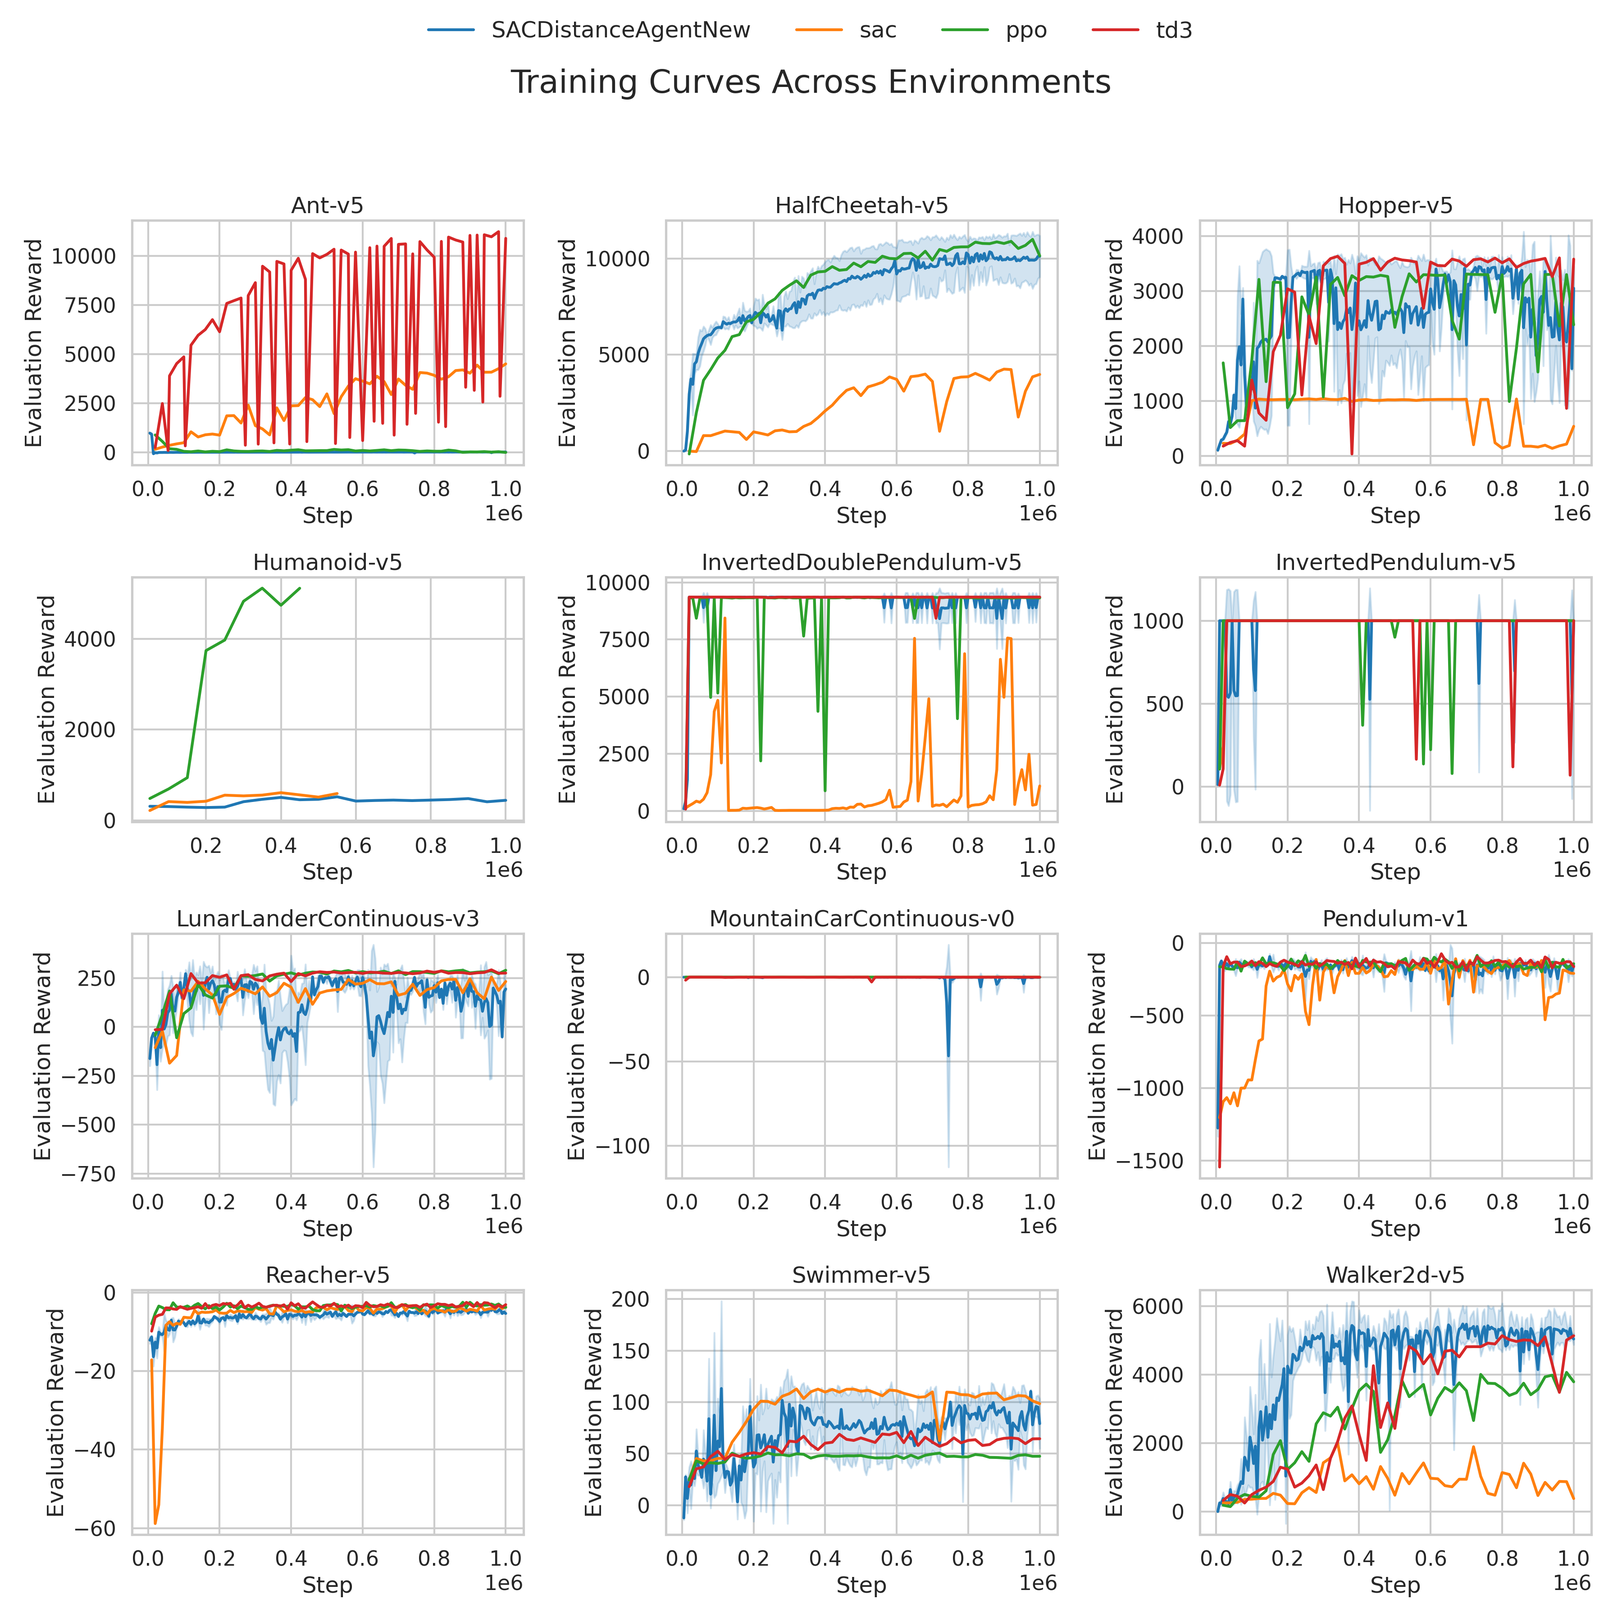
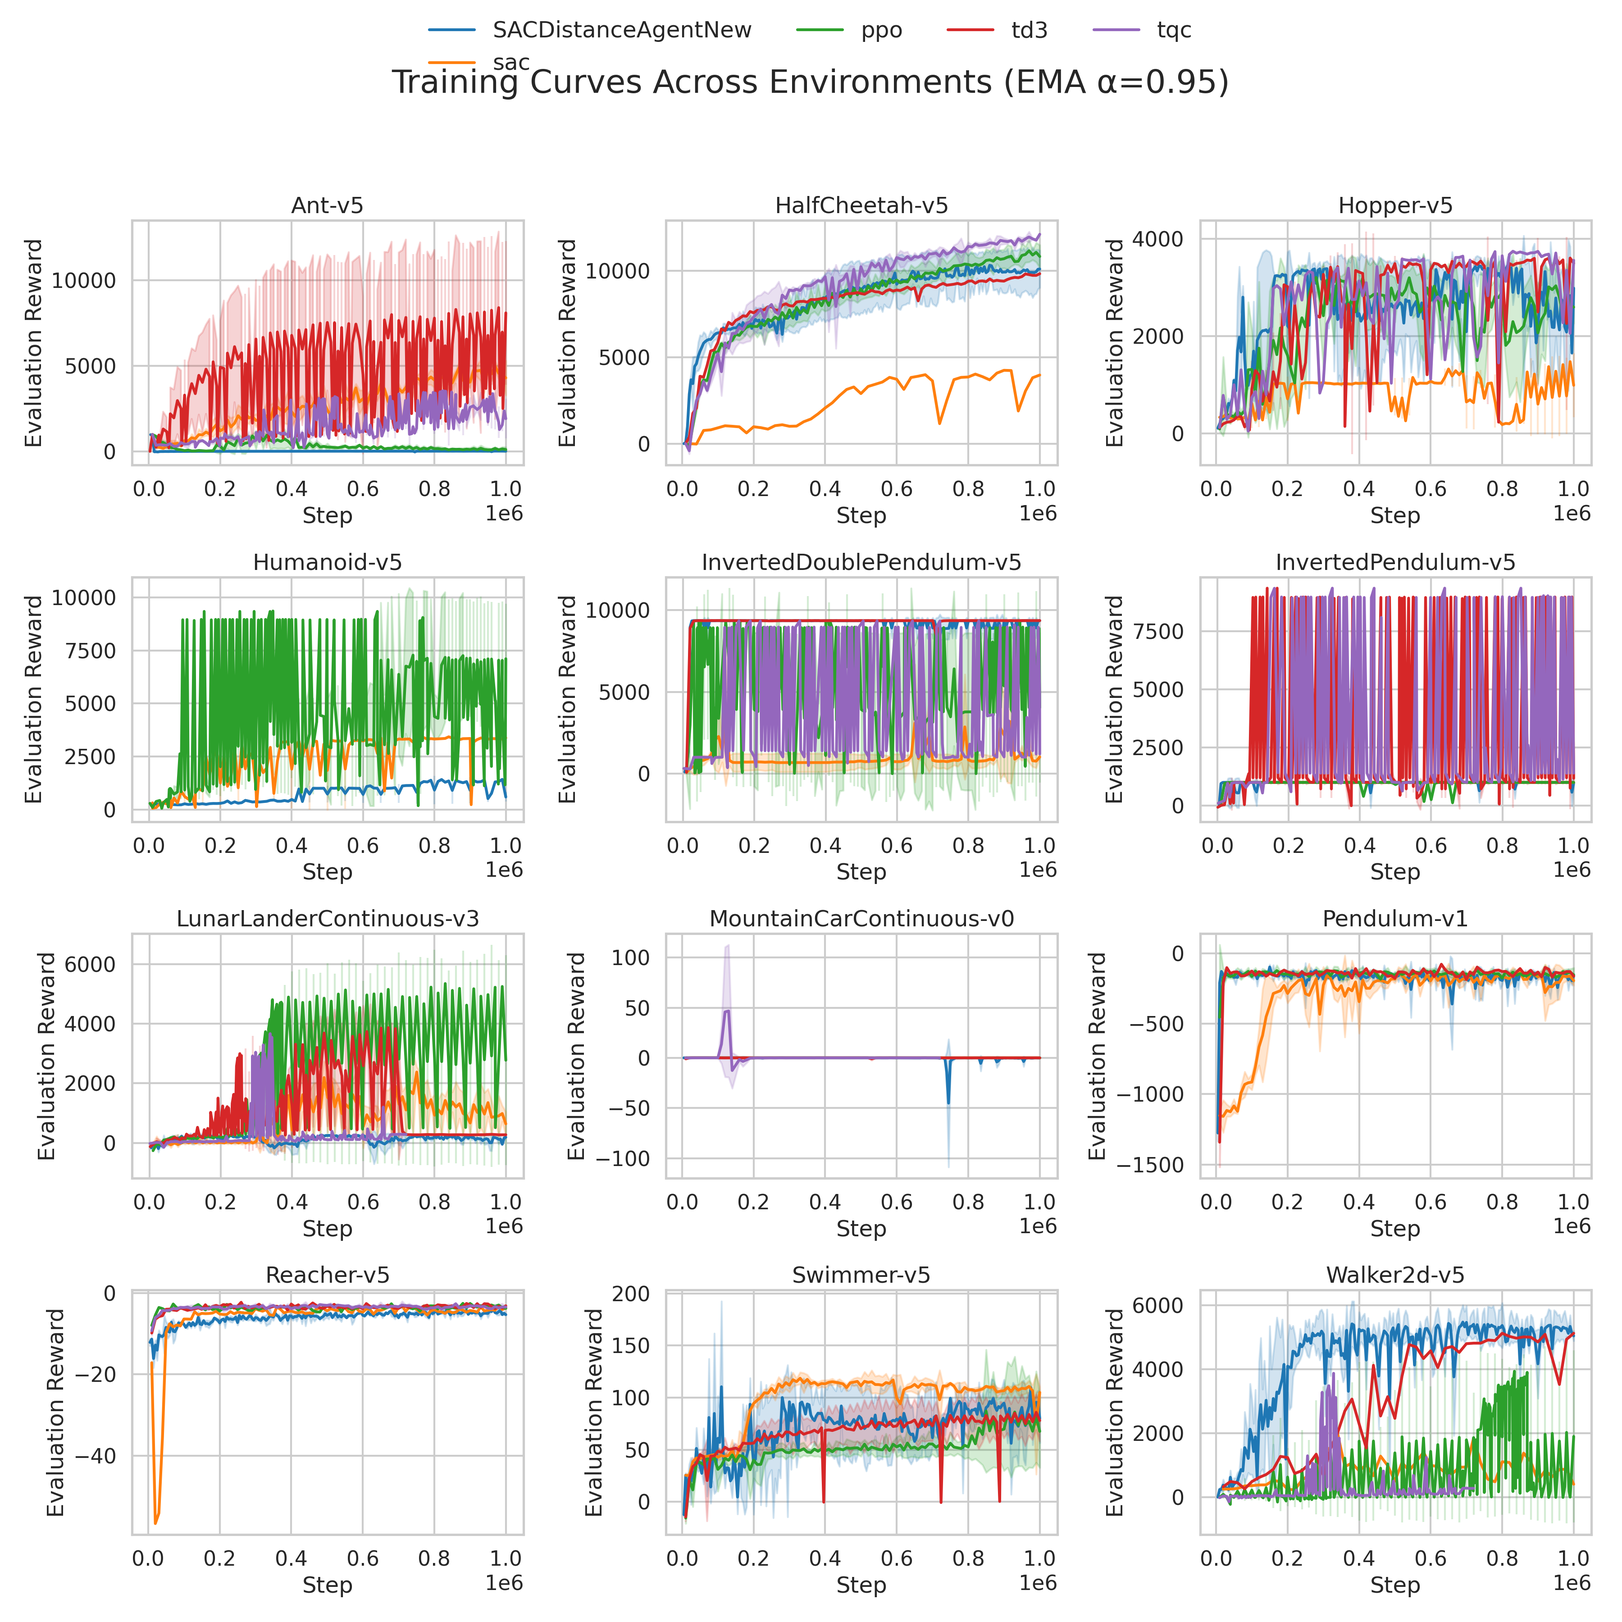
feat: update SACDistanceAgentNew to use in-state Qhat; modify runner script for algorithm naming consistency

diff --git a/dist_rl_fix/algos/sac_distance_new_discr.py b/dist_rl_fix/algos/sac_distance_new_discr.py
@@ -127,20 +127,6 @@ class SACDistanceAgentNew:
         self.rep_huber = rep_huber
         self.beta_ema = BetaEMA(decay=0.995)
 
-        # --- Action bank (global proposal reservoir) ---
-        self.bank_max = 50_000
-        self.bank_ptr = 0
-        self.bank_filled = 0
-        self.action_bank = torch.zeros(
-            self.bank_max, self.act_dim, device=self.device)
-
-        # fixed knobs that rarely need touching
-        self._bank_jitter = 0.10   # small jitter added when sampling from the bank
-        # fraction of proposals that are global (bank)
-        self._rho_global = 0.20
-        self._cem_elites = 8      # elites per state for CEM refinement
-        self._cem_new = 16     # new CEM samples per state
-
         # self.alpha_min = 0.02                    # floor to keep some exploration
         self.max_grad_norm = 5
         self.steps = 0
@@ -158,35 +144,6 @@ class SACDistanceAgentNew:
             f"[Init] lr={lr}, gamma={gamma}, tau={tau}, rep_loss_weight={rep_loss_weight}, target_entropy={self.target_entropy:.2f}")
         print(f'Kernel aux weight: {self.kernel_aux_weight}, kernel temp: {self.kernel_temp}, kernel cand: {self.kernel_cand}, kernel state k: {self.kernel_state_k}, kernel adaptive tau: {self.kernel_adaptive_tau}')
 
-    @torch.no_grad()
-    def _bank_add_env_action(self, a_env: torch.Tensor):
-        """
-        Add an env-space action (B, act_dim) into the global bank (stored in [-1,1]).
-        """
-        if a_env.dim() == 1:
-            a_env = a_env.unsqueeze(0)
-        # (B, A) in [-1,1]
-        a_norm = self._env_to_action(a_env)
-        n = a_norm.size(0)
-        idx = (torch.arange(n, device=self.device) +
-               self.bank_ptr) % self.bank_max
-        self.action_bank[idx] = a_norm
-        self.bank_ptr = int((self.bank_ptr + n) % self.bank_max)
-        self.bank_filled = min(self.bank_max, self.bank_filled + n)
-
-    @torch.no_grad()
-    def _bank_sample(self, B: int, M: int) -> torch.Tensor:
-        """
-        Sample (B, M, A) actions from the global bank with small jitter; if empty, fallback to uniform.
-        """
-        if self.bank_filled == 0:
-            # fallback: wide uniform in [-1,1]
-            return (2.0 * torch.rand(B, M, self.act_dim, device=self.device) - 1.0).clamp(-1, 1)
-        idx = torch.randint(0, self.bank_filled, (B, M), device=self.device)
-        a = self.action_bank[idx]  # (B, M, A)
-        if self._bank_jitter > 0:
-            a = (a + self._bank_jitter * torch.randn_like(a)).clamp(-1, 1)
-        return a
 
     @property
     def alpha(self):
@@ -378,40 +335,6 @@ class SACDistanceAgentNew:
         )
         return loss, info
 
-    def _qhat_in_state(self, obs, K: int = 64, noise_std: float = 0.1,
-                       softmax_temp: float = 1.0, eps: float = 0.05):
-
-        obs_n = self.obs_rms.normalize(obs)                     # (B,D)
-        B = obs_n.shape[0]
-        obs_rep = obs_n.repeat_interleave(K, dim=0)             # (B*K,D)
-
-        # propose K actions per current state
-        with torch.no_grad():
-            a_k, _, _ = self.actor.sample(obs_rep)              # (B*K,A)
-            if noise_std > 0:
-                a_k = (a_k + noise_std * torch.randn_like(a_k)).clamp(-1, 1)
-
-            z_k = F.normalize(self.rep_trunk_targ(
-                obs_rep, a_k), p=2, dim=1)  # (B*K,H)
-            q1k, q2k = self.q_targ(obs_rep, a_k)
-            qk = torch.min(q1k, q2k).view(B, K, 1)              # (B,K,1)
-
-        # anchor at current policy action
-        a_anchor, logp, _ = self.actor.sample(obs_n)               # (B,A)
-        z_i = F.normalize(self.rep_trunk(obs_n, a_anchor),
-                          p=2, dim=1)         # (B,H)
-
-        # cosine sims to K proposals for the *same* state
-        z_k_view = z_k.view(B, K, -1)                           # (B,K,H)
-        S = torch.einsum('bd,bkd->bk', z_i, z_k_view)           # (B,K)
-
-        W = torch.softmax(S / softmax_temp, dim=1)              # (B,K)
-        if eps > 0.0:                                           # keep gradients alive
-            W = (1 - eps) * W + eps / K
-
-        Qhat = (W.unsqueeze(-1) * qk).sum(dim=1)                # (B,1)
-        return Qhat, logp
-
     def _qhat_in_state_norm(self, obs, K: int = 64, noise_std: float = 0.1,
                             softmax_temp: float = 1.0, eps: float = 0.05):
 
@@ -468,252 +391,6 @@ class SACDistanceAgentNew:
 
         return Qhat, logp
 
-    def _qhat_in_state_fast(self,
-                            obs,
-                            K: int = 64,
-                            noise_std: float = 0.10,
-                            base_temp: float = 1.0,
-                            eps_w: float = 1e-3,
-                            positive_tail: bool = True,
-                            multi_tau: bool = True,
-                            keff_target_frac: float = 0.4,   # target effective support ~ 0.4*Ktot
-                            keff_min_frac: float = 0.2,      # clamps for safety
-                            keff_max_frac: float = 0.6,
-                            cem_elites: int = 8,             # CEM-lite elites per state
-                            cem_new: int = 16,               # new samples per state
-                            m_anchors: int = 1,              # multi-anchor variance reduction
-                            bary_lambda: float = 0.2):       # tiny barycentric attraction
-        """
-        In-state Q̂ with stability + acceleration:
-        - Proposals: K from π + small noise, then CEM-lite augments with 'cem_new'
-        - Weights: softmax over cosine sims, adaptive τ (keff tracking), multi-τ average
-        - Advantage: centered, optionally positive-tail only (ReLU), tiny clipping
-        - Barycentric boost: -λ * < z_i , z_bar >  (z_bar stop-grad), improves step size
-        - Optional M anchors averaged for variance reduction
-
-        Returns:
-        Qhat_mean: (B,1)
-        logp_mean: (B,)  (mean over anchors)
-        bary_loss: scalar (already with the correct sign to be added to actor loss)
-        """
-        device = self.device
-        obs_n = self.obs_rms.normalize(obs)                       # (B,D)
-        B = obs_n.size(0)
-
-        # ---------- proposals (stop-grad path) ----------
-        with torch.no_grad():
-            # initial K samples from current policy
-            obs_rep0 = obs_n.repeat_interleave(K, dim=0)          # (B*K,D)
-            a0, _, _ = self.actor.sample(obs_rep0)                # (B*K,A)
-            if noise_std > 0:
-                a0 = (a0 + noise_std * torch.randn_like(a0)).clamp(-1, 1)
-            A0 = a0.view(B, K, self.act_dim)                      # (B,K,A)
-            K0 = K
-
-            # evaluate critic on initial proposals
-            q1_0, q2_0 = self.q_targ(obs_rep0, a0)                # (B*K,1)
-            qk0 = torch.min(q1_0, q2_0).view(B, K0)               # (B,K)
-
-            # ---- CEM-lite refinement (cheap, stop-grad) ----
-            m = min(cem_elites, K0) if cem_elites > 0 else 0
-            if m > 0 and cem_new > 0:
-                elite_idx = torch.topk(
-                    qk0, k=m, dim=1).indices                       # (B,m)
-                elite = torch.gather(
-                    A0, 1, elite_idx.unsqueeze(-1).expand(-1, -1, self.act_dim))  # (B,m,A)
-                # (B,1,A)
-                mu = elite.mean(dim=1, keepdim=True)
-                std = elite.std(dim=1, keepdim=True).clamp_min(
-                    1e-3)                  # (B,1,A)
-                A_cem = (mu + std * torch.randn(B, cem_new,
-                         self.act_dim, device=device)).tanh()   # (B,cem_new,A)
-                # (B,Ktot,A)
-                A_all = torch.cat([A0, A_cem], dim=1)
-            else:
-                A_all = A0
-
-            Ktot = A_all.size(1)
-            obs_rep = obs_n.repeat_interleave(
-                Ktot, dim=0)                             # (B*Ktot,D)
-            A_all_flat = A_all.reshape(
-                B * Ktot, self.act_dim)                         # (B*Ktot,A)
-
-            # critic targets on augmented set
-            # (B*Ktot,1)
-            q1, q2 = self.q_targ(obs_rep, A_all_flat)
-            # (B,Ktot,1)
-            qk = torch.min(q1, q2).view(B, Ktot, 1)
-
-            # representation targets of proposals
-            z_k = F.normalize(self.rep_trunk_targ(
-                obs_rep, A_all_flat), p=2, dim=1)    # (B*Ktot,H)
-            # (B,Ktot,H)
-            z_k = z_k.view(B, Ktot, -1)
-
-        # ---------- adaptive τ via K_eff of similarity weights ----------
-        # we adapt τ from S only (independent of q), using a persistent tracker
-        if not hasattr(self, "_tau_instate"):
-            self._tau_instate = torch.tensor(
-                float(max(0.75, base_temp)), device=device)
-
-        # choose an "anchor for τ adaptation": use current policy once
-        a_tau, _, _ = self.actor.sample(
-            obs_n)                                         # (B,A)
-        z_tau = F.normalize(self.rep_trunk(obs_n, a_tau),
-                            p=2, dim=1)                  # (B,H)
-
-        # cosine similarities S (B,Ktot)
-        S_tau = torch.einsum('bd,bkd->bk', z_tau, z_k).clamp(-1.0, 1.0)
-
-        # multiplicative update to keep K_eff ≈ keff_target_frac*Ktot (within [keff_min, keff_max])
-        eps = 1e-8
-
-        def keff_from_tau(tau_scalar: torch.Tensor):
-            Wtmp = torch.softmax(S_tau / (tau_scalar + eps),
-                                 dim=1)                    # (B,Ktot)
-            # (B,)
-            keff = 1.0 / (Wtmp.pow(2).sum(dim=1) + eps)
-            return Wtmp, keff
-
-        Wtmp, keff = keff_from_tau(self._tau_instate)
-        tgt = float(max(keff_min_frac * Ktot,
-                    min(keff_max_frac * Ktot, keff_target_frac * Ktot)))
-        err = (keff.mean().item() - tgt) / max(tgt, 1.0)
-        # small, stable correction; clamp τ to reasonable range
-        self._tau_instate = (self._tau_instate *
-                             math.exp(0.35 * (-err))).clamp(0.1, 5.0)
-
-        # ---------- multi-anchor pass (M times) ----------
-        Qhat_list = []
-        logp_list = []
-        bary_terms = []
-
-        for _ in range(max(1, m_anchors)):
-            # anchor (this branch carries gradients)
-            a_anchor, logp, _ = self.actor.sample(
-                obs_n)                                # (B,A)
-            z_i = F.normalize(self.rep_trunk(obs_n, a_anchor),
-                              p=2, dim=1)              # (B,H)
-            # (B,)
-            logp_list.append(logp)
-
-            # cosine sims S for this anchor
-            S = torch.einsum('bd,bkd->bk', z_i, z_k).clamp(-1.0,
-                                                           1.0)                   # (B,Ktot)
-
-            # weights W with τ; optional multi-τ averaging
-            if multi_tau:
-                taus = [self._tau_instate, 2.0 *
-                        self._tau_instate, 4.0 * self._tau_instate]
-                W_stack = [torch.softmax(S / (t + eps), dim=1)
-                           for t in taus]           # list of (B,Ktot)
-                W = torch.stack(W_stack, dim=0).mean(
-                    dim=0)                             # (B,Ktot)
-            else:
-                W = torch.softmax(S / (self._tau_instate + eps),
-                                  dim=1)                 # (B,Ktot)
-
-            # tiny ε-smoothing to avoid zero-weights
-            W = (1.0 - eps_w) * W + eps_w / Ktot
-
-            # robust centering baseline
-            with torch.no_grad():
-                # (B,Ktot)
-                qk_flat = qk.squeeze(-1)
-                # mean + median baseline (robust to outliers)
-                # (B,1)
-                q_mean = (W * qk_flat).sum(dim=1, keepdim=True)
-                q_med = qk_flat.median(
-                    dim=1, keepdim=True).values                     # (B,1)
-                # (B,1)
-                q_bar = 0.5 * (q_mean + q_med)
-            # centered (B,Ktot,1)
-            # (B,Ktot,1)
-            q_tilde = qk - q_bar.unsqueeze(-1)
-
-            if positive_tail:
-                # keep only positive tail
-                q_tilde = torch.relu(q_tilde)
-
-            # mild clipping to stabilize huge early spikes
-            q_tilde = q_tilde.clamp(min=0.0, max=10.0)
-
-            # centered readout
-            # (B,1)
-            Qhat = (W.unsqueeze(-1) * q_tilde).sum(dim=1)
-            Qhat_list.append(Qhat)
-
-            # barycentric attraction: -λ * < z_i , z_bar >  (z_bar stop-grad)
-            with torch.no_grad():
-                # (B,H)
-                z_bar = (W.unsqueeze(-1) * z_k).sum(dim=1)
-            # scalar
-            bary = - bary_lambda * (z_i * z_bar).sum(dim=1).mean()
-            bary_terms.append(bary)
-
-        # aggregate anchors
-        Qhat_mean = torch.stack(Qhat_list, dim=0).mean(
-            dim=0)                           # (B,1)
-        logp_mean = torch.stack(logp_list, dim=0).mean(
-            dim=0)                           # (B,)
-        bary_loss = torch.stack(bary_terms, dim=0).mean(
-        )                               # scalar
-
-        # diagnostics
-        if wandb.run is not None:
-            keff_now = (1.0 / (W.pow(2).sum(dim=1) + eps)).mean().item()
-            wandb.log({
-                "instate_fast/tau": float(self._tau_instate.item()),
-                "instate_fast/keff": float(keff_now),
-                "instate_fast/top_sim": float(S.max(dim=1).values.mean().item()),
-            }, step=self.steps)
-
-        return Qhat_mean, logp_mean, bary_loss
-
-    def _actor_loss_instate_fast(self, obs,
-                                 K: int = 64,
-                                 noise_std: float = 0.10,
-                                 base_temp: float = 1.0,
-                                 positive_tail: bool = True,
-                                 multi_tau: bool = True,
-                                 cem_elites: int = 8,
-                                 cem_new: int = 16,
-                                 m_anchors: int = 1,
-                                 bary_lambda: float = 0.2):
-
-        Qhat, logp, bary_loss = self._qhat_in_state_fast(
-            obs,
-            K=K,
-            noise_std=noise_std,
-            base_temp=base_temp,
-            positive_tail=positive_tail,
-            multi_tau=multi_tau,
-            cem_elites=cem_elites,
-            cem_new=cem_new,
-            m_anchors=m_anchors,
-            bary_lambda=bary_lambda,
-        )
-
-        # entropy term (optionally clamp α early for stability)
-        alpha = self.log_alpha.exp()
-        # alpha = torch.clamp(alpha, min=0.03)  # optional floor during first ~200k steps
-
-        entropy_loss = (alpha * logp).mean()
-        actor_loss = entropy_loss - Qhat.mean() + bary_loss
-
-        # standard alpha update
-        alpha_loss = -(self.log_alpha *
-                       (logp + self.target_entropy).detach()).mean()
-
-        if wandb.run is not None:
-            wandb.log({
-                "instate_fast/Qhat": float(Qhat.mean().item()),
-                "instate_fast/entropy_loss": float(entropy_loss.item()),
-                "instate_fast/bary_loss": float(bary_loss.item()),
-                "train/alpha": float(alpha.item()),
-            }, step=self.steps)
-
-        return actor_loss, alpha_loss
 
     def _kernel_tau_instate(self, S_rowwise: torch.Tensor, base_temp: float) -> torch.Tensor:
         """
@@ -767,9 +444,7 @@ class SACDistanceAgentNew:
 
             o2, r, done, trunc, _ = self.env.step(a_env)
             self.replay.add(o, o2, a_env, r, done or trunc)
-            self._bank_add_env_action(torch.as_tensor(
-                a_env, device=self.device, dtype=torch.float32))
-
+            
             ep_r += r
             ep_len += 1
             self.steps += 1

diff --git a/main.py b/main.py
@@ -48,8 +48,7 @@ def main():
                         help="If true, logs will be sent to wandb.")
 
     # algorithm args
-    parser.add_argument("--algo", type=str, default="SACDistanceDiffusionAgent")
-    # parser.add_argument("--algo", type=str, default="DistRL")
+    parser.add_argument("--algo", type=str, default="DistAgent")    
     parser.add_argument("--model-save-path", type=str,
                         default="./saved_models/")
     parser.add_argument("--noise-type", type=str, default="Scheduled")
@@ -215,7 +214,7 @@ def main():
                                      state_k=args.kernel_state_k, use_adv=args.kernel_adv)
             agent.train_kernel()
 
-    elif args.algo == "SACDistanceAgentNew":
+    elif args.algo == "DistAgent":
         set_seed(args.seed)
 
         setattr(args, 'rep_gamma_shape', args.v_gamma)  # for representation loss        

diff --git a/results_analysis/visualize_training.py b/results_analysis/visualize_training.py
@@ -122,7 +122,7 @@ def parse_args() -> argparse.Namespace:
     parser.add_argument("--out", type=Path, default=Path("results_analysis/plots"),
                         help="Directory to save plot images")
     parser.add_argument("--show", action="store_true", help="Display plots interactively")
-    parser.add_argument("--ema-alpha", type=float, default=0.0,
+    parser.add_argument("--ema-alpha", type=float, default=0.95,
                         help="Optional EMA smoothing parameter (0 disables)")
     parser.add_argument("--max-step", type=int, default=1_000_000,
                         help="Maximum training step to plot (set negative to include all)")

diff --git a/runner.py b/runner.py
@@ -44,7 +44,7 @@ PYTHON_ENV = "/home/sorfanouda/anaconda3/envs/dt/bin/python"
 # PYTHON_ENV = "/home/sorfanoudakis/.conda/envs/distrl/bin/python"
 
 # for envs in ['Pendulum-v1', 'MountainCarContinuous-v0','LunarLanderContinuous-v3,"Hopper-v5"]:
-for algo in ['SACDistanceDiffusionAgent']:  # 'RTGRecDistRL', 'StochRTGRecRL'
+for algo in ['SACDistanceDiffusionAgent']:  # 'DistAgent'
     for env in ['HalfCheetah-v5']:
         for v_gamma in [0.5]:  # 0.99, 0.95, 1.0
             rep_gamma_shape = v_gamma
